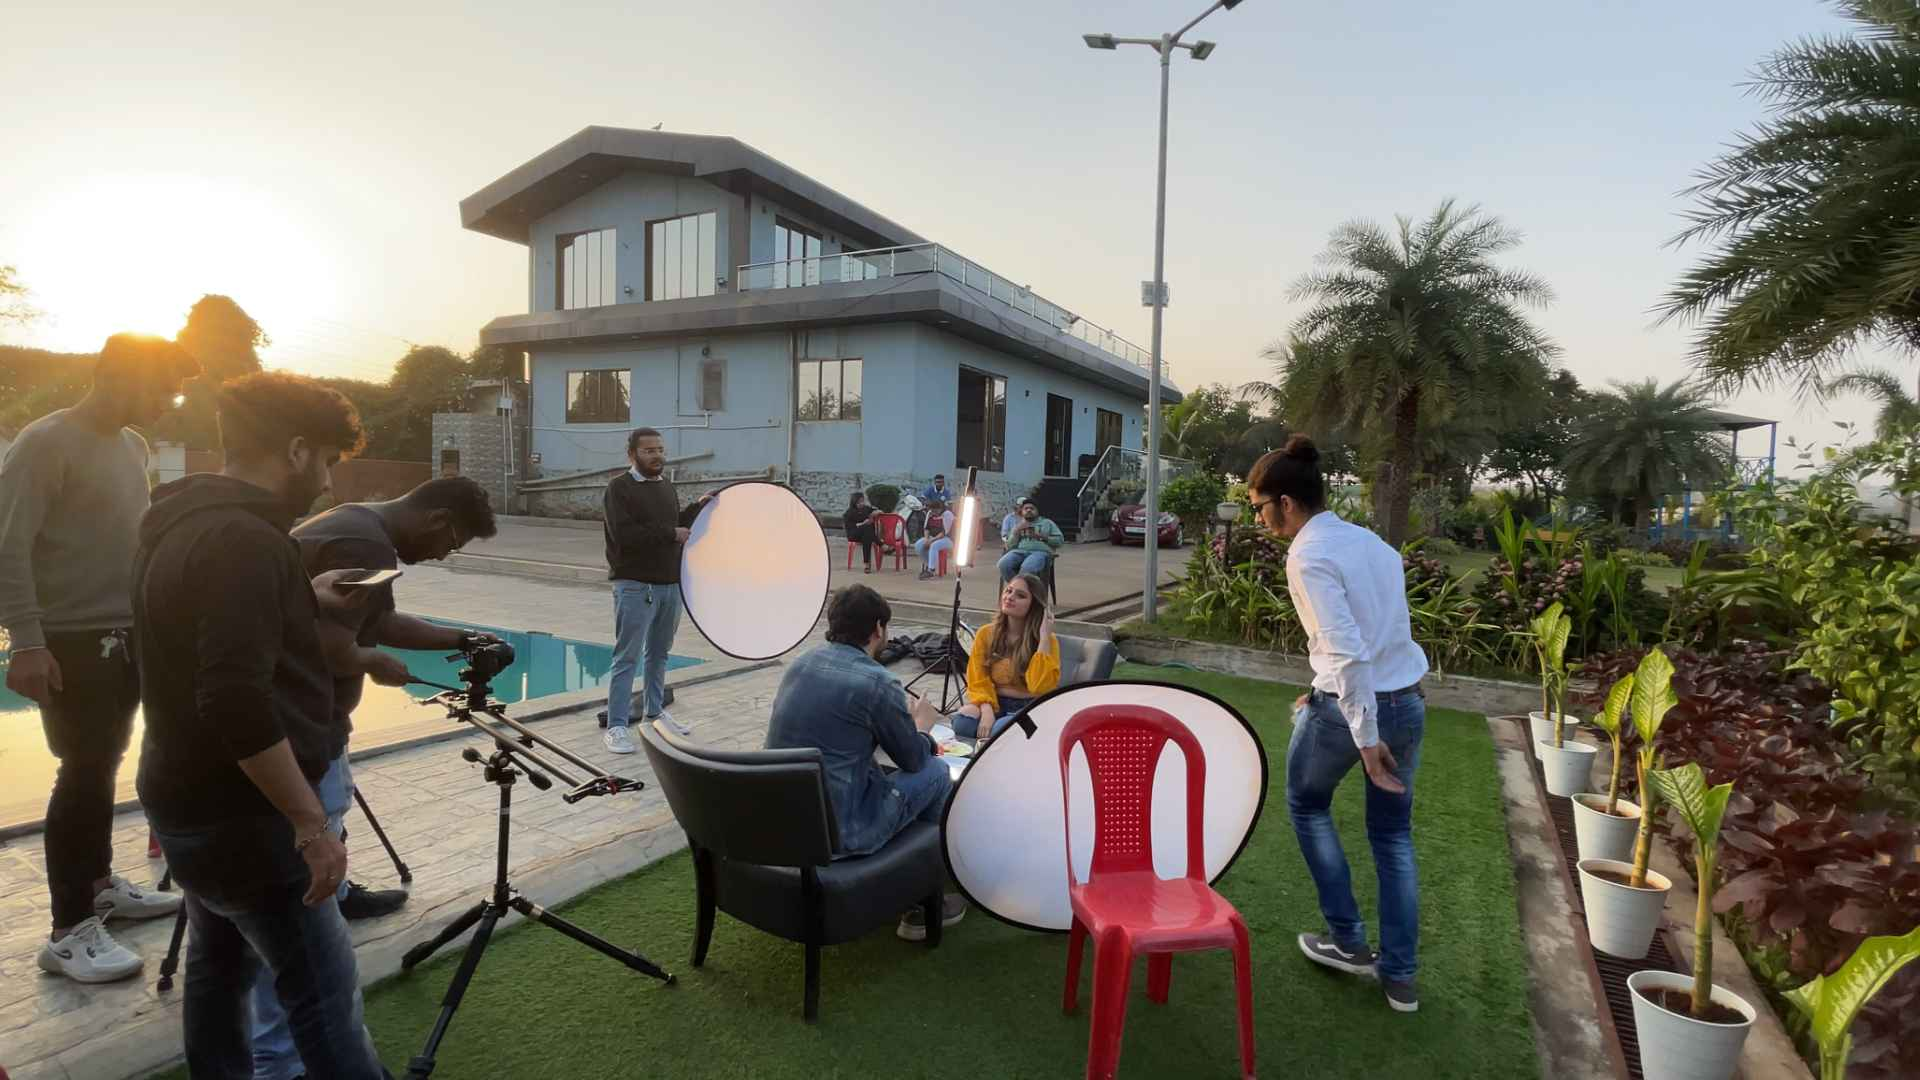
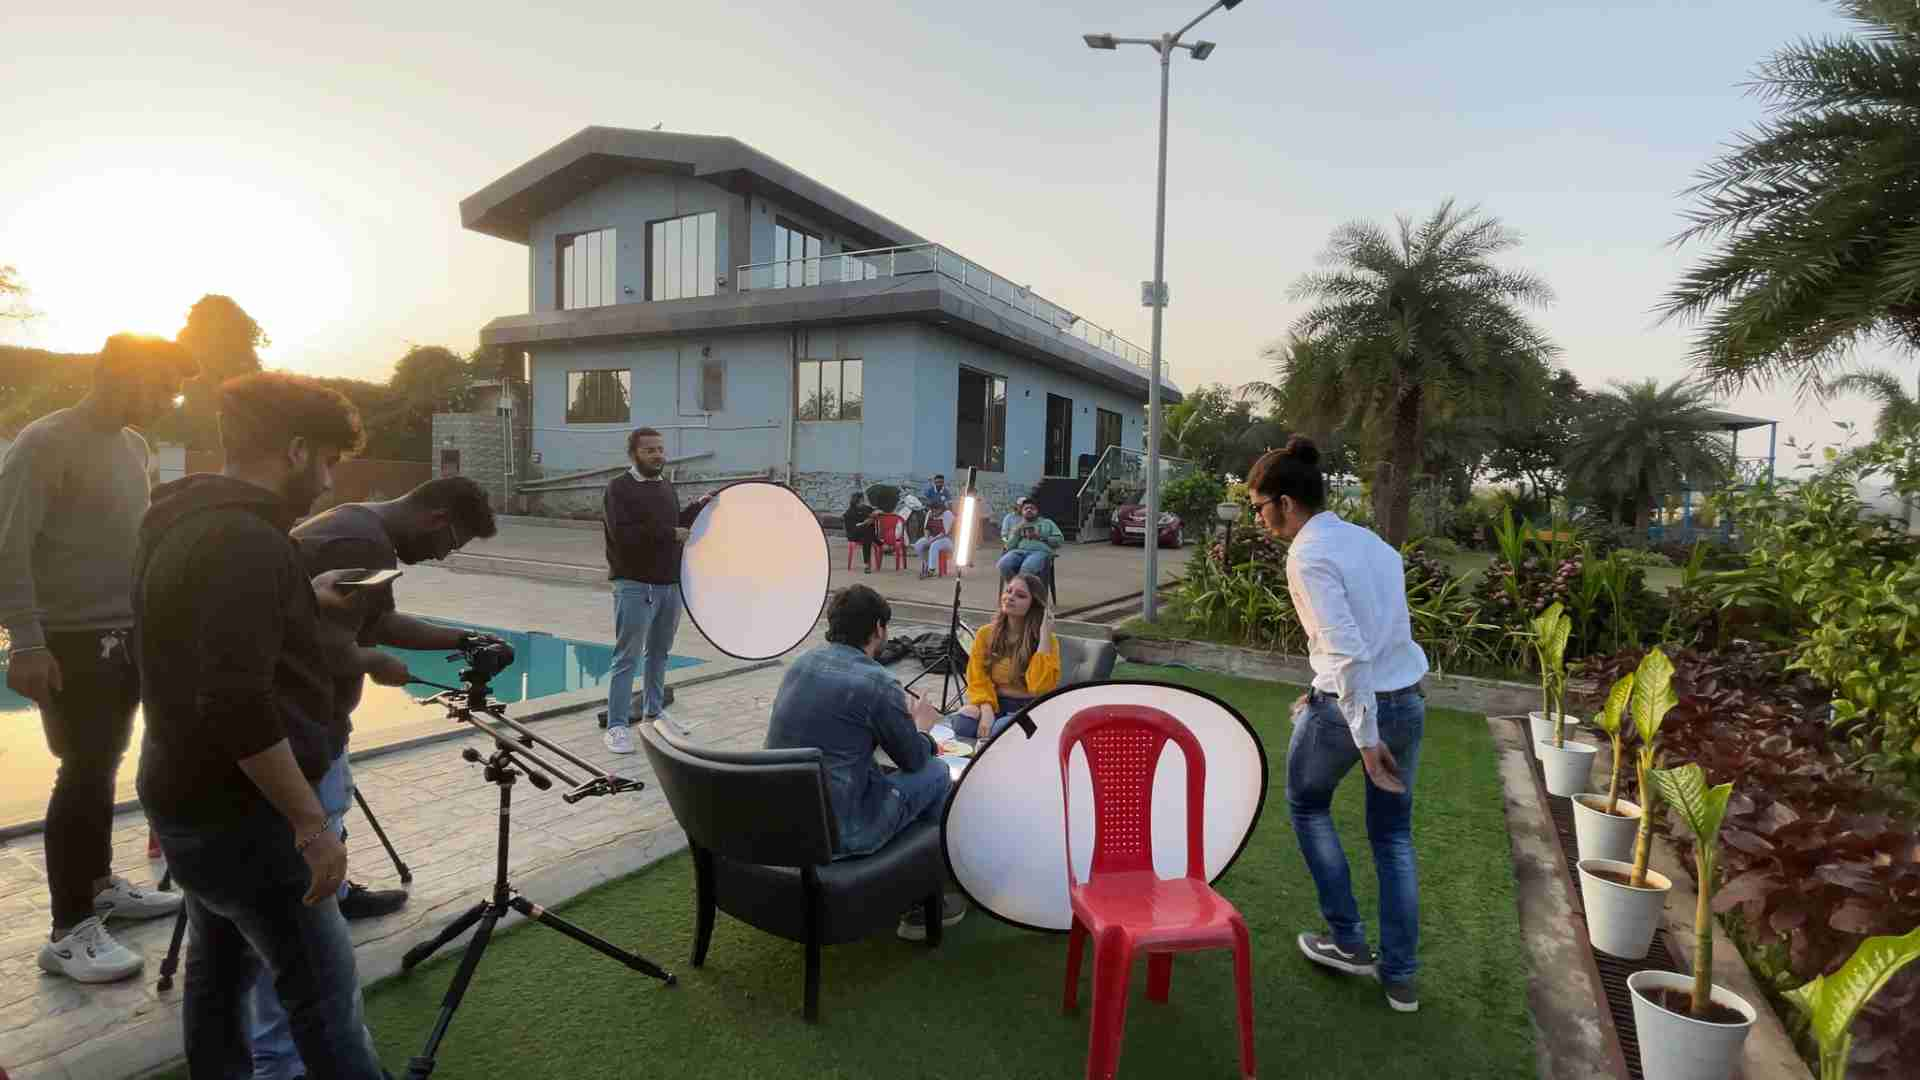
compressed images

diff --git a/index.html b/index.html
@@ -18,7 +18,7 @@
         content="UI, UX, Mobile App, Web Design, Web Development, Responsive website, Creative website, Video, Creative Content">
 
     <!-- Favicon -->
-    <link rel="shortcut icon" href="img/favicon/favicon.png">
+    <link rel="shortcut icon" href="img/favicon/favicon-compressed.jpg">
 
     <!-- Icons -->
     <link href="https://fonts.googleapis.com/icon?family=Material+Icons" rel="stylesheet">

diff --git a/css/style.css b/css/style.css
@@ -1171,7 +1171,7 @@ ul.social-icons li.google-plus-icon a:hover {
            STATS SECTION
 ============================================ */
 #stats {
-  background: url("../img/stats/stats-bg.jpg") no-repeat fixed center;
+  background: url("../img/stats/stats-bg-compressed.jpg") no-repeat fixed center;
   background-size: cover;
 }
 #stats .vertical-heading {
